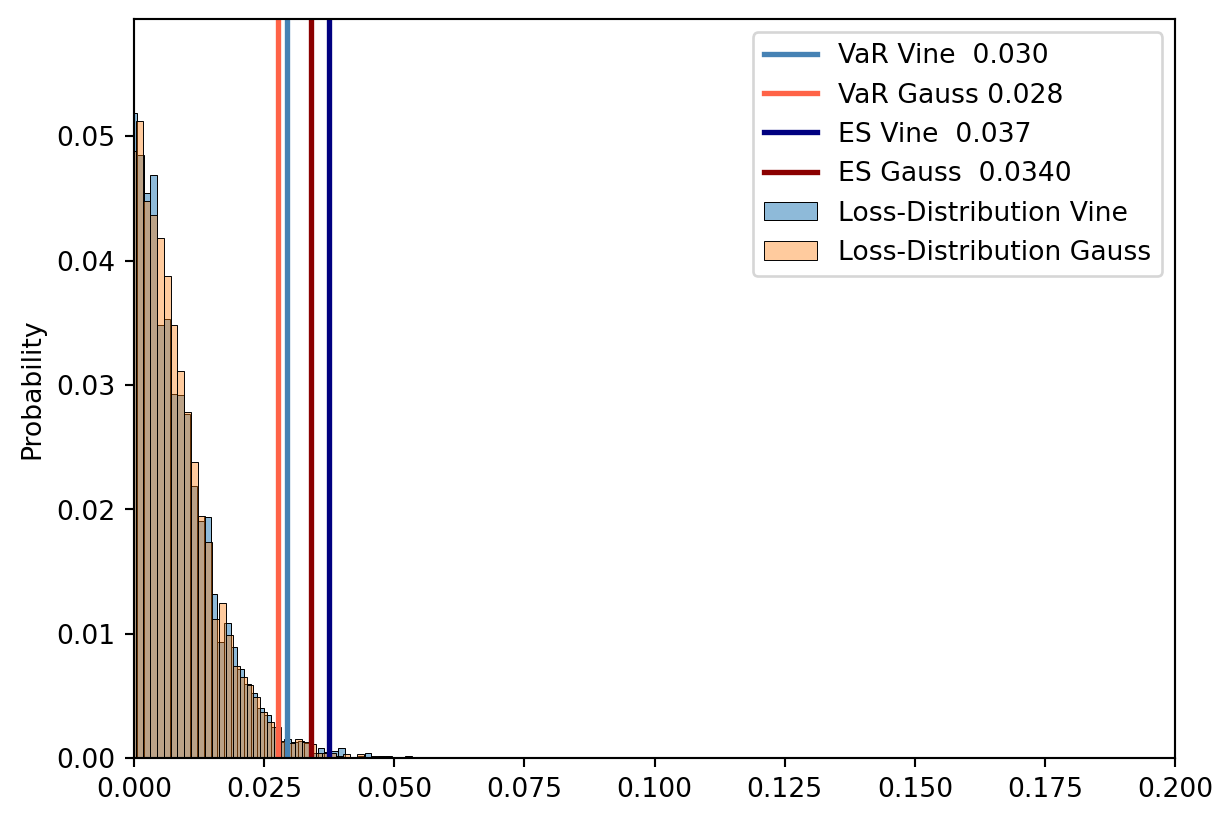
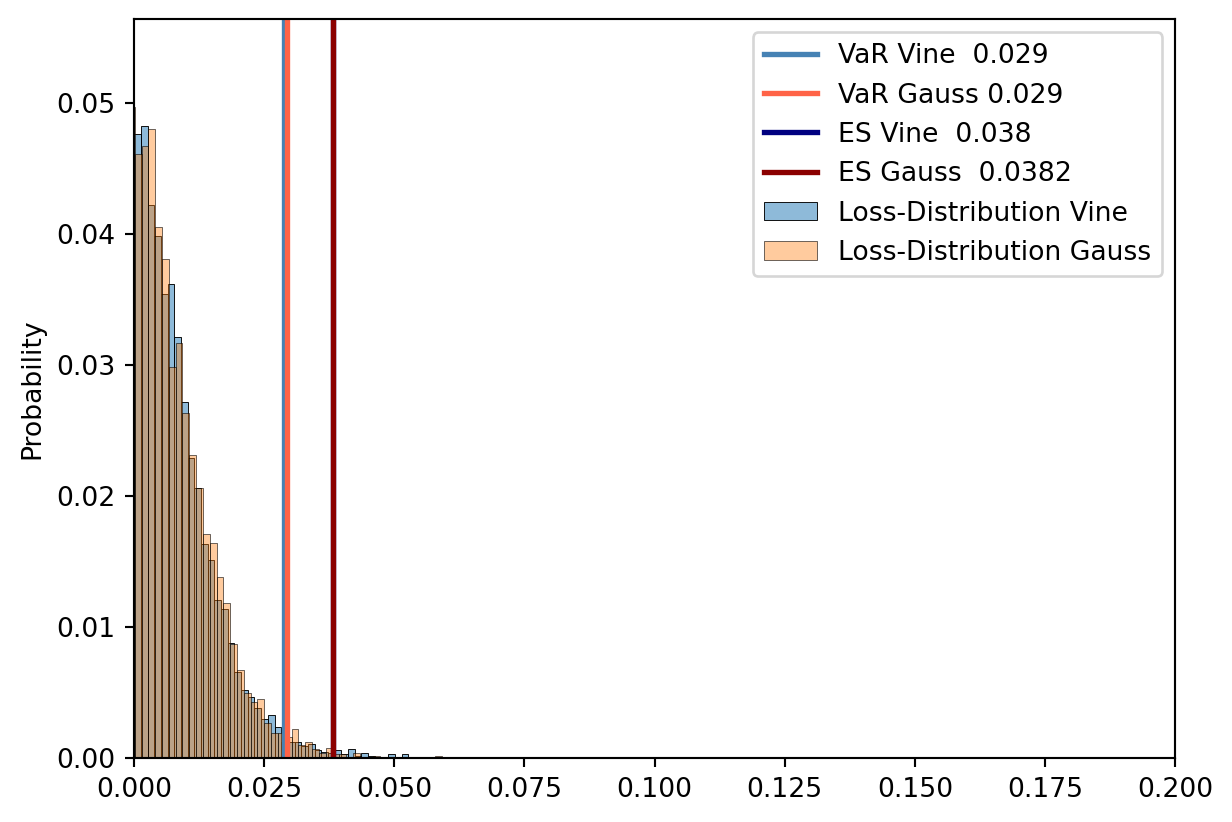
re-render with TOC and title

diff --git a/index.html b/index.html
@@ -155,7 +155,7 @@ window.Quarto = {
 </header>
 
 
-<div id="e1c612a1" class="cell" data-execution_count="1">
+<div id="e3d19d0c" class="cell" data-execution_count="1">
 <div class="code-copy-outer-scaffold"><div class="sourceCode cell-code" id="cb1"><pre class="sourceCode python code-with-copy"><code class="sourceCode python"><span id="cb1-1"><a href="#cb1-1" aria-hidden="true" tabindex="-1"></a><span class="im">import</span> pandas <span class="im">as</span> pd</span>
 <span id="cb1-2"><a href="#cb1-2" aria-hidden="true" tabindex="-1"></a><span class="im">import</span> numpy <span class="im">as</span> np</span>
 <span id="cb1-3"><a href="#cb1-3" aria-hidden="true" tabindex="-1"></a><span class="im">from</span> pyvinecopulib <span class="im">import</span> Vinecop</span>
@@ -179,7 +179,7 @@ window.Quarto = {
 <h2 class="anchored" data-anchor-id="choosing-instruments">Choosing Instruments</h2>
 <p>The focus of this project lies on the methodological problem of tail risk modelling in multivariate portfolios; instrument selection is therefore kept deliberately simple. All assets are denominated in USD, avoiding the additional complexity of currency exchange risk that would arise with international investments — a natural extension for follow-up work, alongside more complex instruments such as options.</p>
 <p>The portfolio consists of five US equities (NVDA, GOOGL, JPM, WMT, XOM) and five commodity futures (crude oil, silver, aluminium, gold, copper). The selection is motivated by expected heterogeneity in tail dependence: equities are likely to exhibit strong co-movement in the tails due to shared market and sector-specific risks, whereas commodities — particularly gold — are expected to show weak or negative tail dependence with equities, reflecting their historical role as safe-haven assets during market stress.</p>
-<div id="42fff6eb" class="cell" data-execution_count="2">
+<div id="51205f0c" class="cell" data-execution_count="2">
 <div class="code-copy-outer-scaffold"><div class="sourceCode cell-code" id="cb2"><pre class="sourceCode python code-with-copy"><code class="sourceCode python"><span id="cb2-1"><a href="#cb2-1" aria-hidden="true" tabindex="-1"></a>ticker <span class="op">=</span> [</span>
 <span id="cb2-2"><a href="#cb2-2" aria-hidden="true" tabindex="-1"></a>    <span class="st">'NVDA'</span>,</span>
 <span id="cb2-3"><a href="#cb2-3" aria-hidden="true" tabindex="-1"></a>    <span class="st">'GOOGL'</span>,</span>
@@ -193,7 +193,7 @@ window.Quarto = {
 <span id="cb2-11"><a href="#cb2-11" aria-hidden="true" tabindex="-1"></a>    <span class="st">'HG=F'</span>,</span>
 <span id="cb2-12"><a href="#cb2-12" aria-hidden="true" tabindex="-1"></a>]</span></code></pre></div><button title="Copy to Clipboard" class="code-copy-button"><i class="bi"></i></button></div>
 </div>
-<div id="b049952b" class="cell" data-execution_count="3">
+<div id="0976f5b9" class="cell" data-execution_count="3">
 <div class="code-copy-outer-scaffold"><div class="sourceCode cell-code" id="cb3"><pre class="sourceCode python code-with-copy"><code class="sourceCode python"><span id="cb3-1"><a href="#cb3-1" aria-hidden="true" tabindex="-1"></a>prices <span class="op">=</span> yf.download(ticker, start<span class="op">=</span><span class="st">"2014-05-06"</span>)</span>
 <span id="cb3-2"><a href="#cb3-2" aria-hidden="true" tabindex="-1"></a>close <span class="op">=</span> prices[<span class="st">'Close'</span>]</span>
 <span id="cb3-3"><a href="#cb3-3" aria-hidden="true" tabindex="-1"></a></span>
@@ -209,7 +209,7 @@ window.Quarto = {
 [*******************   40%                       ]  4 of 10 completed
 [**********************50%                       ]  5 of 10 completed
 [**********************60%****                   ]  6 of 10 completed
-[**********************70%*********              ]  7 of 10 completed
+[**********************60%****                   ]  6 of 10 completed
 [**********************80%*************          ]  8 of 10 completed
 [**********************90%******************     ]  9 of 10 completed
 [*********************100%***********************]  10 of 10 completed
@@ -231,7 +231,7 @@ X_t = \sigma_t \epsilon_t,
 + \beta_1 \sigma^2_{t-1}.
 \]</span></p>
 <p>When the shock at <span class="math inline">\(t-1\)</span> is negative, the indicator <span class="math inline">\(\mathbf{1}[\epsilon_{t-1} &lt; 0]\)</span> equals one and the effective ARCH coefficient becomes <span class="math inline">\(\alpha_1 + \gamma_1 &gt; \alpha_1\)</span>, producing a larger increase in conditional variance than a positive shock of the same size.</p>
-<div id="cdff0ac5" class="cell" data-execution_count="4">
+<div id="aa397f79" class="cell" data-execution_count="4">
 <div class="code-copy-outer-scaffold"><div class="sourceCode cell-code" id="cb5"><pre class="sourceCode python code-with-copy"><code class="sourceCode python"><span id="cb5-1"><a href="#cb5-1" aria-hidden="true" tabindex="-1"></a><span class="kw">def</span> garch(ticker, log_returns, p, q, o):</span>
 <span id="cb5-2"><a href="#cb5-2" aria-hidden="true" tabindex="-1"></a>    mu <span class="op">=</span> {}</span>
 <span id="cb5-3"><a href="#cb5-3" aria-hidden="true" tabindex="-1"></a>    std_resid <span class="op">=</span> {}</span>
@@ -268,7 +268,7 @@ dtype: float64</code></pre>
 <h2 class="anchored" data-anchor-id="pot-analysis">POT Analysis</h2>
 <p>A GPD model is fitted separately to the standardised residuals of each asset via the Peaks-over-Threshold method. The central modelling choice is the threshold <span class="math inline">\(u\)</span>: exceedances above <span class="math inline">\(u\)</span> are theoretically justified to follow a GPD distribution by the Pickands–Balkema–de Haan theorem, but <span class="math inline">\(u\)</span> must balance two competing demands. A high threshold reduces the bias of the GPD approximation but leaves few exceedances for estimation; a low threshold yields more data but risks fitting the GPD to observations where the approximation does not yet hold — the familiar bias–variance trade-off in extreme value analysis.</p>
 <p>As a pragmatic solution, the 95th percentile of each asset’s residual distribution is used as a common threshold. This ensures a sufficient number of exceedances for stable MLE estimation while sitting far enough into the tail for the GPD approximation to plausibly hold. A limitation of this uniform choice is that the threshold may be too conservative for some assets — yielding fewer exceedances than necessary — or not conservative enough for others, in which case the GPD approximation may not yet be valid and parameter estimates may be biased. Parameter estimation is carried out via MLE using the <code>pyextremes</code> package.</p>
-<div id="bcfd969a" class="cell" data-execution_count="5">
+<div id="44b1a599" class="cell" data-execution_count="5">
 <div class="code-copy-outer-scaffold"><div class="sourceCode cell-code" id="cb7"><pre class="sourceCode python code-with-copy"><code class="sourceCode python"><span id="cb7-1"><a href="#cb7-1" aria-hidden="true" tabindex="-1"></a>alpha <span class="op">=</span> <span class="fl">0.95</span></span>
 <span id="cb7-2"><a href="#cb7-2" aria-hidden="true" tabindex="-1"></a></span>
 <span id="cb7-3"><a href="#cb7-3" aria-hidden="true" tabindex="-1"></a></span>
@@ -285,7 +285,7 @@ dtype: float64</code></pre>
 <span id="cb7-14"><a href="#cb7-14" aria-hidden="true" tabindex="-1"></a></span>
 <span id="cb7-15"><a href="#cb7-15" aria-hidden="true" tabindex="-1"></a>u, model <span class="op">=</span> GPD_fit(ticker, std_resid, alpha)</span></code></pre></div><button title="Copy to Clipboard" class="code-copy-button"><i class="bi"></i></button></div>
 </div>
-<div id="f34e48e9" class="cell" data-execution_count="6">
+<div id="3c1dbe90" class="cell" data-execution_count="6">
 <div class="code-copy-outer-scaffold"><div class="sourceCode cell-code" id="cb8"><pre class="sourceCode python code-with-copy"><code class="sourceCode python"><span id="cb8-1"><a href="#cb8-1" aria-hidden="true" tabindex="-1"></a>assets <span class="op">=</span> [</span>
 <span id="cb8-2"><a href="#cb8-2" aria-hidden="true" tabindex="-1"></a>    <span class="st">"NVDA"</span>,</span>
 <span id="cb8-3"><a href="#cb8-3" aria-hidden="true" tabindex="-1"></a>    <span class="st">"GOOGL"</span>,</span>
@@ -340,7 +340,7 @@ dtype: float64</code></pre>
 \left(1 + \hat{\xi}\,\frac{z - u_t}{\hat{\sigma}}\right)^{-1/\hat{\xi}},
 \]</span></p>
 <p>where <span class="math inline">\(n_u/n\)</span> is the empirical probability of exceeding <span class="math inline">\(u_t\)</span>. At the threshold, the tail starts at <span class="math inline">\(1 - n_u/n = (n-n_u)/n\)</span>, which is approximately continuous with the body endpoint <span class="math inline">\((n-n_u)/(n+1)\)</span> for large <span class="math inline">\(n\)</span>.</p>
-<div id="d6039d69" class="cell" data-execution_count="7">
+<div id="4c837777" class="cell" data-execution_count="7">
 <div class="code-copy-outer-scaffold"><div class="sourceCode cell-code" id="cb9"><pre class="sourceCode python code-with-copy"><code class="sourceCode python"><span id="cb9-1"><a href="#cb9-1" aria-hidden="true" tabindex="-1"></a><span class="kw">def</span> pit(ticker, model, std_resid, u):</span>
 <span id="cb9-2"><a href="#cb9-2" aria-hidden="true" tabindex="-1"></a>    F <span class="op">=</span> {}</span>
 <span id="cb9-3"><a href="#cb9-3" aria-hidden="true" tabindex="-1"></a>    <span class="cf">for</span> t <span class="kw">in</span> ticker:</span>
@@ -503,7 +503,7 @@ dtype: float64</code></pre>
 \rho = \sin\!\left(\frac{\pi}{2}\,\tau\right),
 \]</span></p>
 <p>which allows a rank-based, robust estimate of <span class="math inline">\(P\)</span> without requiring full MLE.</p>
-<div id="71400120" class="cell" data-execution_count="8">
+<div id="7caa6194" class="cell" data-execution_count="8">
 <div class="code-copy-outer-scaffold"><div class="sourceCode cell-code" id="cb10"><pre class="sourceCode python code-with-copy"><code class="sourceCode python"><span id="cb10-1"><a href="#cb10-1" aria-hidden="true" tabindex="-1"></a><span class="co"># Automated selection</span></span>
 <span id="cb10-2"><a href="#cb10-2" aria-hidden="true" tabindex="-1"></a>mat <span class="op">=</span> np.array(<span class="bu">list</span>(F_ticker.values())).T</span>
 <span id="cb10-3"><a href="#cb10-3" aria-hidden="true" tabindex="-1"></a>vine_cop <span class="op">=</span> pv.Vinecop(d<span class="op">=</span><span class="dv">10</span>)</span>
@@ -515,7 +515,7 @@ dtype: float64</code></pre>
 <p>To illustrate the difference between the two specifications, the fitted pair-copula for NVDA and GOOGL is shown for both models. The upper-right panel displays simulated pseudo-observations on the uniform scale; the lower-left panel shows copula density contours in normal scores.</p>
 <p>For the vine copula, the pseudo-observation scatter shows clear clustering in the upper right corner — both assets experiencing large losses simultaneously — and the density contours are visibly elongated toward that corner. This indicates positive upper tail dependence (<span class="math inline">\(\lambda_U &gt; 0\)</span>): extreme losses in NVDA and GOOGL tend to co-occur more often than independence would predict.</p>
 <p>The Gaussian copula, fitted with the same Kendall’s <span class="math inline">\(\tau = 0.34\)</span>, produces symmetric elliptical contours with no concentration in the corners. This reflects its structural property of asymptotic independence (<span class="math inline">\(\lambda_U = 0\)</span>): conditional on one asset experiencing an extreme loss, the probability that the other does too converges to zero as the threshold increases. The two models capture the same average dependence but disagree fundamentally about joint tail behaviour — which is precisely what matters for portfolio tail risk.</p>
-<div id="aa68ec44" class="cell" data-execution_count="9">
+<div id="bd73bdb7" class="cell" data-execution_count="9">
 <div class="code-copy-outer-scaffold"><div class="sourceCode cell-code" id="cb11"><pre class="sourceCode python code-with-copy"><code class="sourceCode python"><span id="cb11-1"><a href="#cb11-1" aria-hidden="true" tabindex="-1"></a>pair_cop <span class="op">=</span> vine_cop.get_pair_copula(tree<span class="op">=</span><span class="dv">0</span>, edge<span class="op">=</span><span class="dv">0</span>)</span>
 <span id="cb11-2"><a href="#cb11-2" aria-hidden="true" tabindex="-1"></a>sim <span class="op">=</span> pv.Bicop.simulate(pair_cop, n <span class="op">=</span> <span class="dv">100000</span>)</span>
 <span id="cb11-3"><a href="#cb11-3" aria-hidden="true" tabindex="-1"></a>pv.pairs_copula_data(sim)</span>
@@ -556,7 +556,7 @@ z = u + \frac{\hat{\sigma}}{\hat{\xi}}\left[(1-v)^{-\hat{\xi}} - 1\right]
 = u + \texttt{genpareto.ppf}(v,\, \hat{\xi},\, \hat{\sigma}).
 \]</span></p>
 <p>At <span class="math inline">\(U = \hat{F}(u)\)</span> exactly, <span class="math inline">\(v = 0\)</span> and <span class="math inline">\(\texttt{genpareto.ppf}(0) = 0\)</span>, so <span class="math inline">\(z = u\)</span> — the inverse PIT is continuous at the threshold.</p>
-<div id="1ce5d3a3" class="cell" data-execution_count="10">
+<div id="ab64a88e" class="cell" data-execution_count="10">
 <div class="code-copy-outer-scaffold"><div class="sourceCode cell-code" id="cb13"><pre class="sourceCode python code-with-copy"><code class="sourceCode python"><span id="cb13-1"><a href="#cb13-1" aria-hidden="true" tabindex="-1"></a>sim <span class="op">=</span> pv.Vinecop.simulate(vine_cop, n<span class="op">=</span><span class="dv">10000</span>)</span>
 <span id="cb13-2"><a href="#cb13-2" aria-hidden="true" tabindex="-1"></a>sim.shape</span>
 <span id="cb13-3"><a href="#cb13-3" aria-hidden="true" tabindex="-1"></a>sim_gauss <span class="op">=</span> pv.Vinecop.simulate(gauss_cop, n<span class="op">=</span><span class="dv">10000</span>)</span>
@@ -602,7 +602,7 @@ z = u + \frac{\hat{\sigma}}{\hat{\xi}}\left[(1-v)^{-\hat{\xi}} - 1\right]
 <p>The simulated standardised residuals are converted back to the log-loss scale by applying the GARCH location-scale relationship: <span class="math display">\[
 \tilde{L}_{T+1} = \hat{\mu} + \hat{\sigma}_T \cdot Z,
 \]</span> where <span class="math inline">\(\hat{\sigma}_T\)</span> is the last observed conditional volatility — the natural one-step-ahead forecast under GARCH — and <span class="math inline">\(Z\)</span> is the simulated standardised residual from the inverse PIT. The mean term <span class="math inline">\(\hat{\mu}\)</span> is included for completeness; in practice it is negligible relative to <span class="math inline">\(\hat{\sigma}_T\)</span> at the tail quantiles of interest, but omitting it entirely would be incorrect.</p>
-<div id="ba227692" class="cell" data-execution_count="11">
+<div id="a0ade9b6" class="cell" data-execution_count="11">
 <div class="code-copy-outer-scaffold"><div class="sourceCode cell-code" id="cb14"><pre class="sourceCode python code-with-copy"><code class="sourceCode python"><span id="cb14-1"><a href="#cb14-1" aria-hidden="true" tabindex="-1"></a><span class="kw">def</span> rescale(ticker, sim_resid, conditional_volatility, mu):</span>
 <span id="cb14-2"><a href="#cb14-2" aria-hidden="true" tabindex="-1"></a>    sim_losses <span class="op">=</span> pd.DataFrame(index<span class="op">=</span><span class="bu">range</span>(<span class="bu">len</span>(sim_resid)), columns<span class="op">=</span>ticker)</span>
 <span id="cb14-3"><a href="#cb14-3" aria-hidden="true" tabindex="-1"></a>    <span class="cf">for</span> t <span class="kw">in</span> sim_resid:</span>
@@ -622,7 +622,7 @@ L_P = \frac{1}{n}\sum_{i=1}^{n} L_i.
 \]</span> Equal weighting is a deliberate simplification: the focus of this project is the effect of the dependence model on portfolio tail risk, not portfolio optimisation. With alternative weights, the quantitative results would shift, but the qualitative finding — that the vine copula produces larger tail risk estimates than the Gaussian copula — is expected to be robust. The simulated loss distributions and corresponding risk measures for both copula specifications are shown below.</p>
 <section id="day-risk-measures" class="level3">
 <h3 class="anchored" data-anchor-id="day-risk-measures">1-day Risk Measures</h3>
-<div id="6bdef45d" class="cell" data-execution_count="12">
+<div id="664db468" class="cell" data-execution_count="12">
 <div class="code-copy-outer-scaffold"><div class="sourceCode cell-code" id="cb15"><pre class="sourceCode python code-with-copy"><code class="sourceCode python"><span id="cb15-1"><a href="#cb15-1" aria-hidden="true" tabindex="-1"></a>Loss_Portfolio <span class="op">=</span> pd.DataFrame.<span class="bu">sum</span>(sim_log_losses, axis<span class="op">=</span><span class="dv">1</span>) <span class="op">/</span> sim_log_losses.shape[<span class="dv">1</span>]</span>
 <span id="cb15-2"><a href="#cb15-2" aria-hidden="true" tabindex="-1"></a>Loss_Portfolio_gauss <span class="op">=</span> (</span>
 <span id="cb15-3"><a href="#cb15-3" aria-hidden="true" tabindex="-1"></a>    pd.DataFrame.<span class="bu">sum</span>(sim_log_losses_gauss, axis<span class="op">=</span><span class="dv">1</span>) <span class="op">/</span> sim_log_losses_gauss.shape[<span class="dv">1</span>]</span>
@@ -654,10 +654,10 @@ L_P = \frac{1}{n}\sum_{i=1}^{n} L_i.
 <span id="cb15-29"><a href="#cb15-29" aria-hidden="true" tabindex="-1"></a>plt.legend()</span>
 <span id="cb15-30"><a href="#cb15-30" aria-hidden="true" tabindex="-1"></a>plt.show()</span></code></pre></div><button title="Copy to Clipboard" class="code-copy-button"><i class="bi"></i></button></div>
 <div class="cell-output cell-output-stdout">
-<pre><code>Next-day Vine VaR_0.99: 0.030
-Next-day Vine ES_0.99: 0.037
-Next-day Gauss VaR_0.99: 0.028
-Next-day Gauss ES_0.99: 0.034</code></pre>
+<pre><code>Next-day Vine VaR_0.99: 0.029
+Next-day Vine ES_0.99: 0.038
+Next-day Gauss VaR_0.99: 0.029
+Next-day Gauss ES_0.99: 0.038</code></pre>
 </div>
 <div class="cell-output cell-output-display">
 <div>
@@ -673,7 +673,7 @@ Next-day Gauss ES_0.99: 0.034</code></pre>
 <p>To produce 10-day VaR and ES estimates for both copula specifications, a two-stage Monte Carlo procedure is applied. In the first stage, portfolio losses are simulated via GARCH forward recursion: for each horizon step <span class="math inline">\(h = 1,\ldots,10\)</span>, the conditional variance is updated using the GJR-GARCH equation and new standardised residuals are drawn from the fitted copula via inverse PIT. This is repeated <span class="math inline">\(R = 100\)</span> times per copula model.</p>
 <p>To isolate model differences from Monte Carlo noise, Common Random Numbers (CRN) are used: in each replication round <span class="math inline">\(r\)</span>, both the vine and the Gaussian copula are seeded with the same value <span class="math inline">\(\texttt{base\_seed} + r\)</span>. As a result, any difference in risk measure estimates between the two models reflects the copula structure alone, not sampling variability.</p>
 <p>An important subtlety arises in the ES calculation. ES is not additive over time: summing daily ES estimates across ten horizons implicitly assumes that the worst days always coincide across periods, which overstates the true risk. The correct approach is to first cumulate losses along each simulated path and then compute VaR and ES over the resulting 10-day loss distribution.</p>
-<div id="ba5e2c48" class="cell" data-execution_count="13">
+<div id="05510fd7" class="cell" data-execution_count="13">
 <div class="code-copy-outer-scaffold"><div class="sourceCode cell-code" id="cb17"><pre class="sourceCode python code-with-copy"><code class="sourceCode python"><span id="cb17-1"><a href="#cb17-1" aria-hidden="true" tabindex="-1"></a><span class="kw">def</span> forecast(</span>
 <span id="cb17-2"><a href="#cb17-2" aria-hidden="true" tabindex="-1"></a>    ticker,</span>
 <span id="cb17-3"><a href="#cb17-3" aria-hidden="true" tabindex="-1"></a>    garch_result,</span>
@@ -812,7 +812,7 @@ Next-day Gauss ES_0.99: 0.034</code></pre>
 <h3 class="anchored" data-anchor-id="day-result---one-path">10-day result - one path</h3>
 <p>The simulated loss distributions and cumulative risk measures are shown for both copula specifications. To motivate the GARCH-based forward simulation, the vine copula risk measures are compared against a naïve square-root-of-time benchmark, which scales the one-day VaR and ES by <span class="math inline">\(\sqrt{h}\)</span>. The <span class="math inline">\(\sqrt{t}\)</span> rule implicitly assumes constant, i.i.d. volatility. Under GARCH, however, conditional volatility is mean-reverting: when current volatility is elevated, the model expects it to decline, so cumulative risk grows more slowly than <span class="math inline">\(\sqrt{h}\)</span> implies. This is visible in the left panel — both naïve estimates lie systematically above their MC counterparts across all horizons.</p>
 <p>The right panel compares the simulated 10-day loss distributions for vine and Gaussian copulas. As expected, the vine model produces larger tail risk estimates: the 10-day 99% VaR is 0.0837 for vine versus 0.0810 for Gauss, and the ES is 0.1044 versus 0.0984. This plot represents a single simulation run; whether this difference reflects genuine model structure or Monte Carlo noise is examined in the next section.</p>
-<div id="f66eb96d" class="cell" data-execution_count="14">
+<div id="5fab0713" class="cell" data-execution_count="14">
 <div class="code-copy-outer-scaffold"><div class="sourceCode cell-code" id="cb18"><pre class="sourceCode python code-with-copy"><code class="sourceCode python"><span id="cb18-1"><a href="#cb18-1" aria-hidden="true" tabindex="-1"></a><span class="co"># 1-day anchor for the naive scaling rule</span></span>
 <span id="cb18-2"><a href="#cb18-2" aria-hidden="true" tabindex="-1"></a>var_1d_vine <span class="op">=</span> var_vine[<span class="dv">0</span>]</span>
 <span id="cb18-3"><a href="#cb18-3" aria-hidden="true" tabindex="-1"></a>var_path_scaled_vine <span class="op">=</span> var_1d_vine <span class="op">*</span> np.sqrt(np.arange(<span class="dv">1</span>, <span class="dv">11</span>))</span>
@@ -895,7 +895,7 @@ Next-day Gauss ES_0.99: 0.034</code></pre>
 <h3 class="anchored" data-anchor-id="day-result---one-hundred-paths">10-day result - one hundred paths</h3>
 <p>To assess whether the difference between vine and Gaussian copula risk estimates reflects genuine model structure or Monte Carlo noise, both risk measures are computed across <span class="math inline">\(R = 100\)</span> independent simulation runs. The results are unambiguous: the vine copula produces higher 10-day VaR and ES than the Gaussian copula in every single run, with mean paired differences of 0.0033 for VaR and 0.0066 for ES. The paired difference histograms lie entirely to the right of zero, confirming that the effect is not an artefact of sampling variability.</p>
 <p>The ES gap is approximately twice the VaR gap. This is the central economic finding of the project. VaR is a quantile estimator — it captures whether a threshold is exceeded, but not by how much. ES averages over the magnitude of exceedances. Under the vine copula, tail-dependent assets tend to experience large losses simultaneously in the worst scenarios, driving up the size of joint exceedances. The Gaussian copula, with its asymptotic independence, cannot reproduce this co-movement in the extremes. The consequence is that the Gaussian model systematically underestimates the severity of tail events — and this underestimation is more pronounced for ES than for VaR precisely because ES is sensitive to what happens deep in the tail.</p>
-<div id="0dfb2fd1" class="cell" data-execution_count="15">
+<div id="160b59a0" class="cell" data-execution_count="15">
 <div class="code-copy-outer-scaffold"><div class="sourceCode cell-code" id="cb19"><pre class="sourceCode python code-with-copy"><code class="sourceCode python"><span id="cb19-1"><a href="#cb19-1" aria-hidden="true" tabindex="-1"></a>diff_var <span class="op">=</span> MC_var_vine <span class="op">-</span> MC_var_gauss   <span class="co"># gepaart dank CRN</span></span>
 <span id="cb19-2"><a href="#cb19-2" aria-hidden="true" tabindex="-1"></a>diff_es  <span class="op">=</span> MC_es_vine  <span class="op">-</span> MC_es_gauss</span>
 <span id="cb19-3"><a href="#cb19-3" aria-hidden="true" tabindex="-1"></a></span>
